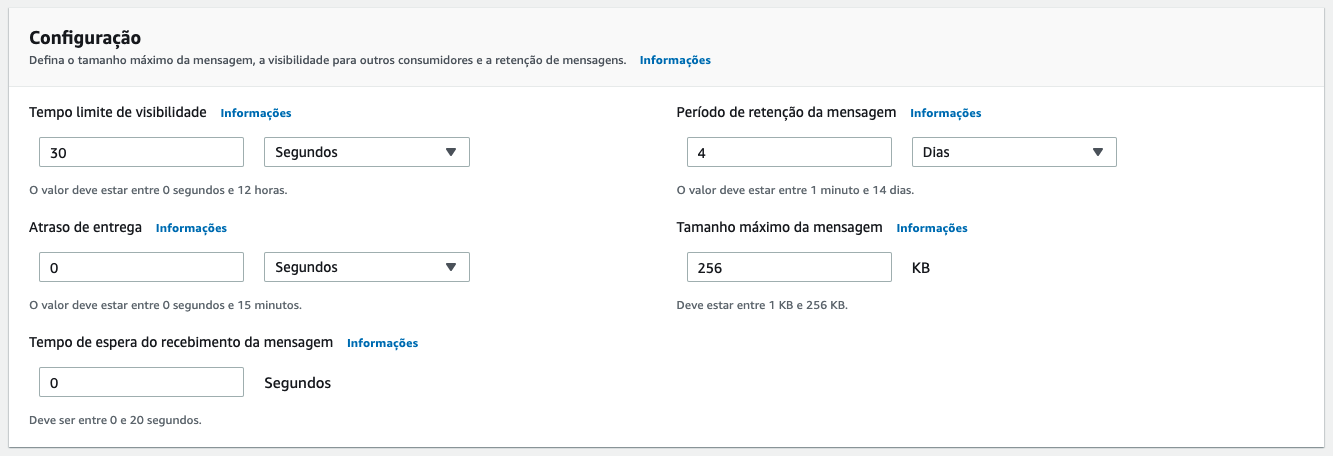
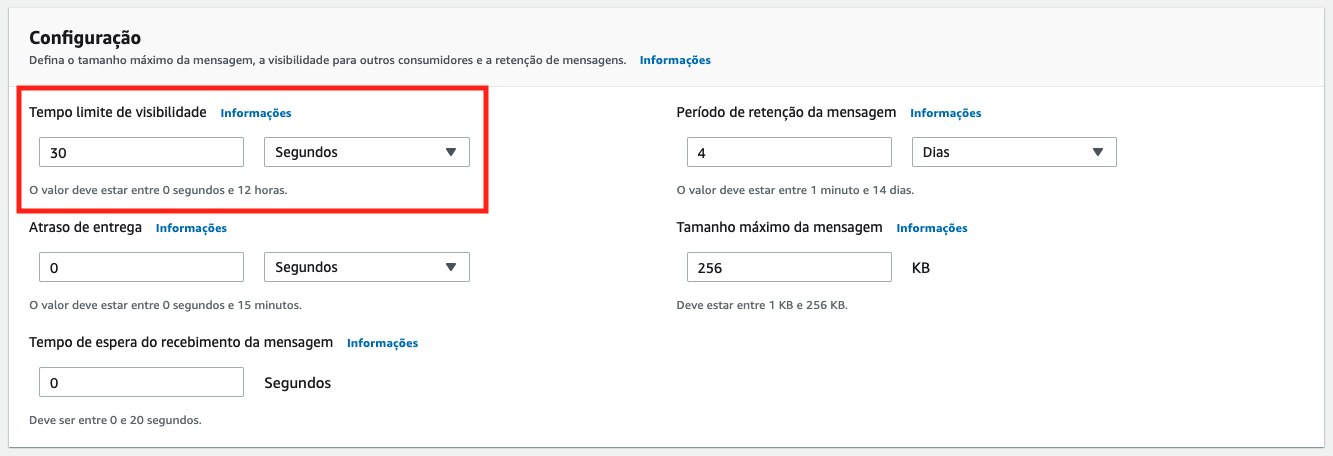
SQS Lambda

Changed region(s): [[0.0, 0.1842, 0.3691, 0.4912]]

diff --git a/05-SQS/03 - Lambda/put.py b/05-SQS/03 - Lambda/put.py
@@ -1,11 +1,19 @@
 from sqsHandler import SqsHandler
+import boto3
+
+def get_account_id():
+    sts_client = boto3.client('sts')
+    account_id = sts_client.get_caller_identity()["Account"]
+    return account_id
+
+account_id = get_account_id()   
 
 mensagens = []
 for num in range(3000):
     mensagens.append({'Id':str(num), 'MessageBody': str(num)})
 
 splitMsg = [mensagens[x:x+10] for x in range(0, len(mensagens), 10)]
-sqs = SqsHandler('<url da sua fila>')
+sqs = SqsHandler(f'https://sqs.us-east-1.amazonaws.com/{account_id}/demoqueue')
 for lista in splitMsg:    
     print(type(lista))
     print(str(lista))

diff --git a/05-SQS/03 - Lambda/README.md b/05-SQS/03 - Lambda/README.md
@@ -6,21 +6,269 @@
 
    ![at](img/lambda-01.png)
    
-5. Altere o serverless.yml para que fique como na imagem. Para abrir utilize `c9 open serverless.yml `. Para pegar o ARN da fila demoqueue utilize o comando abaixo:
+<details>
+<summary> 
+
+**Explicação**
+
+</summary>
+
+<blockquote>
+
+Este código em Python implementa uma função **AWS Lambda** que recebe eventos de uma fila **Amazon SQS**. A função processa cada mensagem do evento, exibe seu conteúdo no log e então encaminha o conteúdo para outra fila (ou a mesma, dependendo da URL usada) usando a classe **`SqsHandler`**.
+
+### Explicação do Código
+
+```python
+import json
+from sqsHandler import SqsHandler
+```
+
+- **`import json`**: Importa o módulo **`json`**, que permite manipular dados JSON, como conversão entre strings JSON e objetos Python.
+- **`from sqsHandler import SqsHandler`**: Importa a classe **`SqsHandler`**, que encapsula a lógica de interação com o Amazon SQS, incluindo o envio de mensagens para a fila SQS.
+
+### Função Lambda `handler`
+
+```python
+def handler(event, context):
+```
+
+- A função **`handler`** é o ponto de entrada da função Lambda. Quando uma mensagem chega na fila SQS e a função Lambda é configurada para processá-la, o **AWS Lambda** invoca essa função automaticamente.
+- **`event`**: Contém os dados do evento que acionou a função Lambda. No caso de um evento SQS, esse objeto inclui informações detalhadas sobre as mensagens que foram lidas da fila.
+- **`context`**: Contém informações sobre o contexto de execução da função Lambda, como o tempo de execução restante e o nome da função. Não é utilizado diretamente aqui, mas pode ser útil em outras implementações.
+
+### Exibição do Evento Completo
+
+```python
+    print(json.dumps(event))
+```
+
+- **`print(json.dumps(event))`**: Converte o **`event`** para uma string JSON e o exibe no log. Isso permite visualizar todo o evento recebido do SQS no log da função Lambda, o que é útil para monitoramento e depuração.
+
+### Instanciação da Classe `SqsHandler`
+
+```python
+    sqs = SqsHandler('<SUA URL DO SQS>')
+```
+
+- **`sqs = SqsHandler('<SUA URL DO SQS>')`**: Cria uma instância da classe **`SqsHandler`** configurada para interagir com uma fila SQS específica. A URL da fila é fornecida como argumento e deve ser substituída por uma URL válida da fila de destino.
+- Essa instância **`sqs`** é utilizada posteriormente para enviar mensagens para a fila SQS.
+
+### Processamento das Mensagens Recebidas
+
+```python
+    for record in event["Records"]:
+        payload = record["body"]
+        print(json.dumps(payload))
+        sqs.send(payload)
+```
+
+- **`for record in event["Records"]:`**: Itera sobre cada mensagem individual (ou "registro") que está presente no **`event["Records"]`**.
+  - Quando o SQS invoca a função Lambda, ele pode enviar várias mensagens ao mesmo tempo, dependendo da configuração. Cada mensagem é armazenada como um item na lista **`Records`**.
+
+- **`payload = record["body"]`**: Extrai o corpo da mensagem atual. No objeto **`record`**, a chave **`body`** contém o conteúdo principal da mensagem, que pode ser um texto ou um JSON.
+  
+- **`print(json.dumps(payload))`**: Exibe o **payload** da mensagem no log em formato JSON para monitoramento, mostrando o conteúdo de cada mensagem recebida.
+
+- **`sqs.send(payload)`**: Envia o conteúdo da mensagem extraída para a fila SQS especificada pela URL passada para o **`SqsHandler`**. O método **`send`** da classe **`SqsHandler`** provavelmente encapsula o envio de mensagens para a fila SQS.
+
+### Retorno do Evento
+
+```python
+    return event
+```
+
+- **`return event`**: A função Lambda retorna o **`event`** original. Isso não é obrigatório para o funcionamento, mas pode ser útil se outros sistemas ou processos precisarem de informações sobre as mensagens processadas.
+
+### Funcionamento com o SQS
+
+Quando essa função Lambda é acionada por uma fila SQS:
+1. Ela recebe um **evento** que contém uma lista de mensagens.
+2. O código exibe cada mensagem no log e, em seguida, envia seu conteúdo para outra fila SQS (ou a mesma fila, dependendo da URL).
+
+Esse processo permite o roteamento de mensagens entre filas SQS, com uma exibição detalhada de logs de cada mensagem, facilitando o monitoramento e a análise das mensagens em trânsito.
+
+</blockquote>
+
+</details>
+
+4. Altere o serverless.yml para que fique como na imagem. Para abrir utilize `c9 open serverless.yml `. Para pegar o ARN da fila demoqueue utilize o comando abaixo:
 ``` shell
 demoqueueURL=`aws sqs get-queue-url --queue-name demoqueue | jq -r .QueueUrl` && aws sqs get-queue-attributes --queue-url $demoqueueURL --attribute-names QueueArn | jq -r .Attributes.QueueArn
 ```
    
    ![at](img/lambda-02.png)
+
+<details>
+<summary> 
+
+**Explicação do serverless.yml**
+
+</summary>
+
+<blockquote>
+
+Este arquivo **`serverless.yml`** configura uma função **AWS Lambda** chamada **`sqsHandler`** para ser automaticamente acionada por eventos provenientes de uma fila **Amazon SQS**. Vamos detalhar cada parte do código:
+
+### Estrutura da Função Lambda
+
+```yaml
+functions:
+  sqsHandler:
+    handler: handler.handler
+    events:
+      - sqs:
+          arn:
+            ARN DA FILA SQS
+          batchSize: 1
+          enabled: true
+```
+
+1. **`functions:`**
+   - Esta seção define as funções Lambda que serão implantadas. Cada função configurada nesta seção será criada como uma função Lambda na AWS.
+
+2. **`sqsHandler:`**
+   - É o nome da função Lambda configurada, chamada **`sqsHandler`**. Este nome é usado internamente pelo Serverless Framework e aparece no console da AWS.
+
+3. **`handler: handler.handler`**
+   - Define o ponto de entrada para a função Lambda.
+   - **`handler`** é o nome do arquivo onde a função está localizada (por exemplo, `handler.py`).
+   - **`handler`** após o ponto refere-se à função dentro do arquivo que será executada (por exemplo, `handler.py` deve conter uma função chamada `handler`). Isso significa que quando a função Lambda for invocada, o Serverless Framework executará `handler.handler`.
+
+### Configuração do Evento SQS
+
+```yaml
+events:
+  - sqs:
+      arn:
+        ARN DA FILA SQS
+      batchSize: 1
+      enabled: true
+```
+
+Esta seção configura a função Lambda para ser acionada por eventos de uma fila **Amazon SQS**. As propriedades especificadas aqui controlam como a função responde aos eventos do SQS.
+
+1. **`events:`**
+   - Define os eventos que irão acionar a função Lambda. Neste caso, a função é acionada por um evento de **SQS**.
+
+2. **`- sqs:`**
+   - Especifica que o evento que acionará a função será de uma **fila SQS**.
+
+3. **`arn:`**
+   - Define o **ARN (Amazon Resource Name)** da fila SQS que está vinculada a essa função Lambda. O **ARN** identifica unicamente a fila que irá enviar os eventos para a função. Substitua **`ARN DA FILA SQS`** pelo ARN real da sua fila SQS, que deve ter o formato `arn:aws:sqs:<region>:<account-id>:<queue-name>`.
+
+4. **`batchSize: 1`**
+   - Define o número máximo de mensagens que a função Lambda receberá em uma única invocação. Com o valor **`1`**, cada execução da função Lambda processará uma mensagem por vez.
+   - Ajustar esse valor pode ajudar a otimizar o consumo de mensagens; valores mais altos aumentam o número de mensagens processadas por invocação.
+
+5. **`enabled: true`**
+   - Este parâmetro habilita o evento para a função Lambda. Quando **`enabled`** é **`true`**, a função está ativa e pronta para processar mensagens da fila SQS.
+   - Configurar **`enabled: false`** desativaria a função, impedindo-a de ser acionada por eventos da fila.
+
+### Resumo
+
+Este arquivo **`serverless.yml`** configura uma função Lambda chamada **`sqsHandler`** para ser acionada por mensagens de uma fila SQS específica. A função é invocada para cada mensagem (devido ao **`batchSize: 1`**) e está habilitada para responder a eventos da fila (graças a **`enabled: true`**). Esse tipo de configuração é útil para processar mensagens individualmente, garantindo que cada mensagem da fila seja tratada por uma execução da função Lambda.
+
+</blockquote>
+
+</details>
+
+
+<details>
+<summary> 
+
+**Explicação comando para recuperar ARN da fila**
+
+</summary>
+
+<blockquote>
+
+Este comando em **AWS CLI** realiza duas operações sequenciais para obter o **ARN (Amazon Resource Name)** de uma fila **Amazon SQS** chamada **`demoqueue`** e armazena o resultado em uma variável.
+
+### Comando Completo
+
+```bash
+demoqueueURL=`aws sqs get-queue-url --queue-name demoqueue | jq -r .QueueUrl` && aws sqs get-queue-attributes --queue-url $demoqueueURL --attribute-names QueueArn | jq -r .Attributes.QueueArn
+```
+
+### Explicação do Comando em Partes
+
+1. **Recupera a URL da Fila SQS**
+   ```bash
+   demoqueueURL=`aws sqs get-queue-url --queue-name demoqueue | jq -r .QueueUrl`
+   ```
+
+   - **`aws sqs get-queue-url --queue-name demoqueue`**: Usa a **AWS CLI** para obter a **URL** da fila chamada **`demoqueue`**.
+   - **`| jq -r .QueueUrl`**: O operador **`|`** passa o resultado para **`jq`**, que é usado para filtrar e extrair o valor da chave **`QueueUrl`** no JSON retornado, sem aspas (`-r` para saída bruta).
+   - **`demoqueueURL=`...**: O valor extraído é armazenado na variável **`demoqueueURL`**, que agora contém a URL da fila **`demoqueue`**.
+
+2. **Recupera o ARN da Fila SQS**
+   ```bash
+   aws sqs get-queue-attributes --queue-url $demoqueueURL --attribute-names QueueArn | jq -r .Attributes.QueueArn
+   ```
+
+   - **`aws sqs get-queue-attributes --queue-url $demoqueueURL --attribute-names QueueArn`**: Usa a **AWS CLI** para obter o **ARN** da fila SQS utilizando a URL armazenada em **`demoqueueURL`**.
+     - **`--queue-url $demoqueueURL`**: Define a URL da fila, passada pela variável **`$demoqueueURL`**.
+     - **`--attribute-names QueueArn`**: Especifica que o comando deve retornar apenas o atributo **`QueueArn`**.
+   - **`| jq -r .Attributes.QueueArn`**: O operador **`|`** envia o resultado para **`jq`**, que extrai o valor de **`QueueArn`** do JSON retornado, removendo aspas ao redor do valor (`-r`).
    
-5. Vá a sua aba do SQS e configure sua demoqueue para ficar como na imagem, isso é necessário pois o tempo de visibilidade padrão estava em 1 segundo para forçar erros no teste da DLQ do ultimo exercicio:
+   O comando exibe diretamente o **ARN** da fila **`demoqueue`** no terminal.
+
+### Resumo do Funcionamento
+
+- Este comando em duas partes primeiro obtém a URL de uma fila SQS chamada **`demoqueue`** e a armazena na variável **`demoqueueURL`**.
+- Em seguida, usa essa URL para consultar o **ARN** da fila SQS e exibe o **ARN** no terminal. Isso é útil para obter o ARN de uma fila SQS sem precisar buscar manualmente.
+
+</blockquote>
+
+</details>
+   
+5. **ANTES DE FAZER DEPLOY** Vá a sua [console do SQS](https://us-east-1.console.aws.amazon.com/sqs/v3/home?region=us-east-1#/queues) e configure sua demoqueue para ficar como na imagem, isso é necessário pois o tempo de visibilidade padrão estava em 1 segundo para forçar erros no teste da DLQ do ultimo exercicio:
 
    ![at](img/lambda-03.png)
+
+6. Execute o comando abaixo para rodar a operação de purge na fila demoqueue:
+``` shell
+aws sqs purge-queue --queue-url $(aws sqs get-queue-url --queue-name demoqueue --output text)
+``` 
+
+<details>
+<summary> 
+
+**Explicação**
+
+</summary>
+
+<blockquote>
+
+Para esvaziar uma fila chamada **`demoqueue`** no **AWS SQS** usando o **AWS CLI**, você pode utilizar o comando **`purge-queue`**. Este comando remove todas as mensagens da fila, mas observe que ele não é reversível e pode levar alguns minutos para completar.
+
+### Explicação do Comando
+
+1. **`aws sqs get-queue-url --queue-name demoqueue --output text`**:
+   - Obtém a URL da fila chamada **`demoqueue`**.
+   - **`--output text`** faz com que a URL seja retornada como texto simples, facilitando o uso no comando `purge-queue`.
+
+2. **`aws sqs purge-queue --queue-url $(...)`**:
+   - **`purge-queue`**: Comando que esvazia todas as mensagens da fila.
+   - **`--queue-url $(...)`**: A opção **`--queue-url`** especifica a URL da fila a ser esvaziada. Aqui, a URL é obtida dinamicamente usando o comando **`aws sqs get-queue-url`** dentro da substituição **`$(...)`**.
+
+### Observação Importante
+
+O comando **`purge-queue`** remove **todas as mensagens da fila**, tanto as mensagens em espera quanto as em trânsito, e pode levar alguns minutos para completar o processo.
+
+</blockquote>
+
+</details>
+
+
+7. Execute o comando `sls deploy` no terminal do cloud9.
+8. Abra com `c9 open put.py`. Veja que ele completa a URL da fila demoqueue apenas adicionando o numero da conta da AWS automaticamente. 
    
-7. Execute o comando `sls deploy` no terminal.
-8. Altere o arquivo put.py colocando a URL da sua fila demoqueue. Abra com `c9 open put.py`.
+   ![at](img/lambda-05.png)
+
 9. Execute o comando `python3 put.py` no terminal e observe no [painel do sqs](https://us-east-1.console.aws.amazon.com/sqs/v3/home?region=us-east-1#/queues) que as mensagens estão indo para a fila de destino.
     
    ![at](img/lambda-04.png)
    
-11.  Para excluir a stack do lambda execute o comando `sls remove` no terminal.
+10. Para excluir a stack do lambda execute o comando `sls remove` no terminal.
